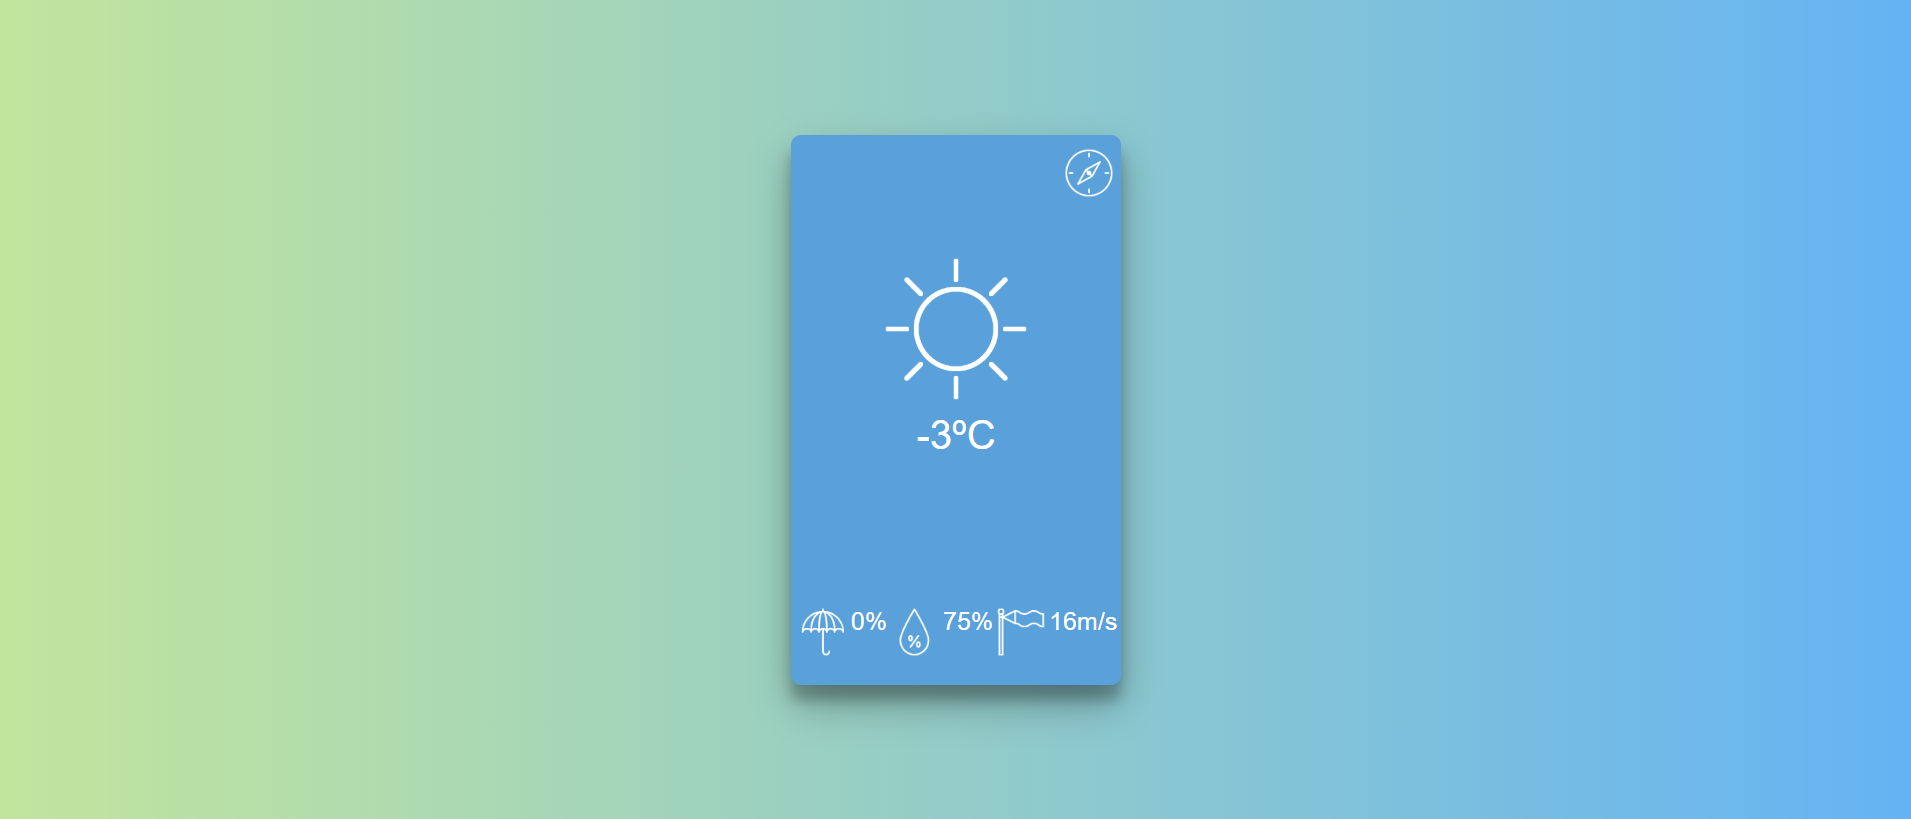
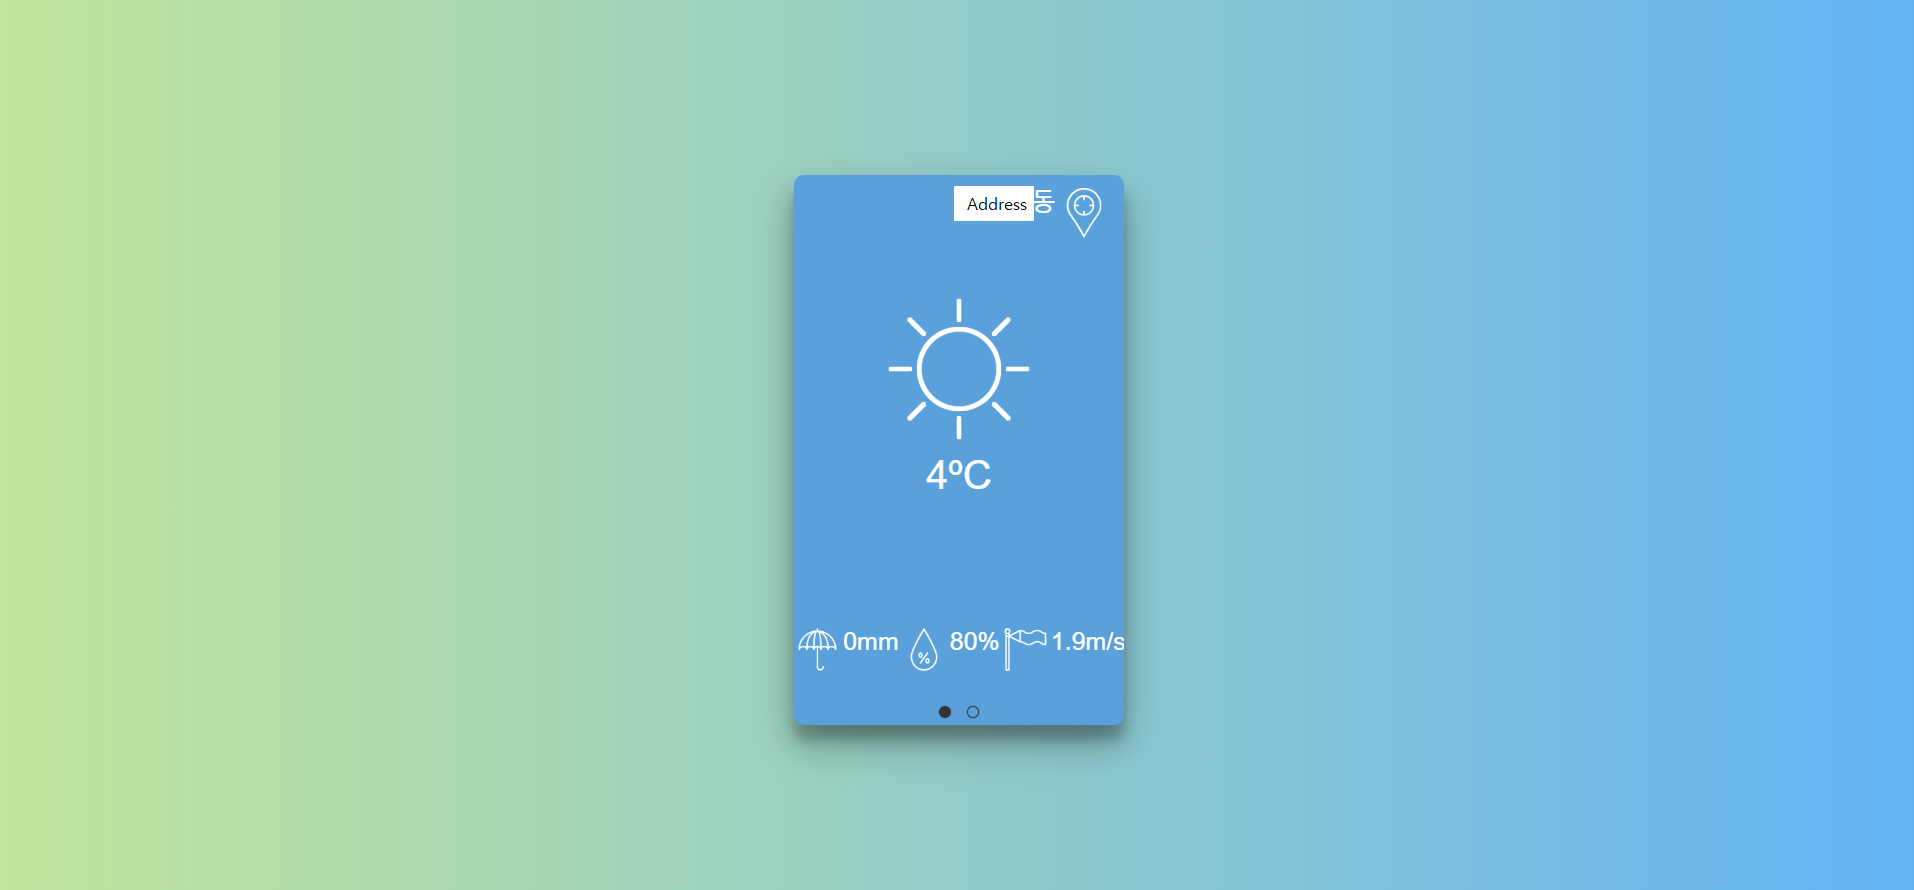
20200220 commit - 미세먼지 api

Changed region(s): [[0.4014, 0.7021, 0.5866, 0.8852], [0.4014, 0.1526, 0.5866, 0.2747], [0.4631, 0.3358, 0.5557, 0.5495]]

diff --git a/src/weatherValue.vue b/src/weatherValue.vue
@@ -1,12 +1,8 @@
 <template>
   <div>
-    <span type="button" id="btn" @click="getLocation">
-      <img src="./icon/gps.png" width="50px" height="50px" />
-    </span>
-
     <VueperSlides
       class="no-shadow"
-      fixed-height="440px"
+      fixed-height="500px"
       :arrows="false"
       bullets-outside
       :slide-content-outside="contentPosition"
@@ -19,6 +15,12 @@
       >
         <template v-slot:content>
           <div class="vueperslide__content-wrapper">
+            <div id="div1">
+              <div>{{ address }}</div>
+              <span type="button" id="btn" @click="getLocation">
+                <img src="./icon/gps.png" width="50px" height="50px" />
+              </span>
+            </div>
             <div id="div2">
               <!--구름형태:1(맑음)-->
               <img
@@ -99,6 +101,7 @@
 <script>
 import moment from "moment";
 import axios from "axios";
+import VueResource from "vue-resource";
 import { VueperSlides, VueperSlide } from "vueperslides";
 import "vueperslides/dist/vueperslides.css";
 
@@ -111,7 +114,12 @@ export default {
   },
   data() {
     return {
+      address: null,
       position: null,
+      dust: null,
+      tm_location: null,
+      tm_x: 0.0,
+      tm_y: 0.0,
       x: 0.0,
       y: 0.0,
       // address: null,
@@ -136,22 +144,43 @@ export default {
           self.position = position.coords;
           self.x = position.coords.latitude;
           self.y = position.coords.longitude;
+          var xn = position.coords.latitude;
+          var yn = position.coords.longitude;
           self.x = parseFloat(self.x).toFixed(0);
           self.y = parseFloat(self.y).toFixed(0);
           console.log(self.x + " " + self.y);
-          //리버스 지오코딩 API
-          // var url =
-          //   "http://api.vworld.kr/req/address?service=address&request=getAddress&version=2.0&crs=epsg:4326&point=" +
-          //   x2 +
-          //   "," +
-          //   y2 +
-          //   "&format=json&type=parcel&zipcode=false&simple=true&key=0770FD5D-CDD0-34DF-A0BF-83B8BBD6B916";
-          // axios.get(url).then(res => {
-          //   self.address = res.data;
+          console.log(xn + " " + yn);
 
-          //   console.log(self.address);
-          // });
-          //초단기실황 API
+          // 좌표->주소 카카오톡 REST API
+          var url =
+            "https://dapi.kakao.com/v2/local/geo/coord2address.json?x=" +
+            yn +
+            "&y=" +
+            xn +
+            "&input_coord=WGS84";
+          var appKey = "e210e19417b24807d3716f4e5a0bf4a9";
+          var config = {
+            headers: {
+              Authorization: "KakaoAK " + appKey,
+              "Access-Control-Request-Method": "GET"
+            }
+          };
+
+          self.$http
+            .get(url, config)
+            .then(res => {
+              self.address = res.data;
+              console.log(self.address);
+
+              self.address =
+                self.address.documents[0].address.region_3depth_name;
+              console.log(self.address);
+            })
+            .catch(error => {
+              console.log(error);
+            });
+
+          //동네예보 API
           var url1 =
             "http://apis.data.go.kr/1360000/VilageFcstInfoService/getVilageFcst?serviceKey=Td3kPWtrJnZxn1TkpcPhyrZj%2BdB%2FpRl1AKuvGw1mUHS63Lp4Dga90IvSn8SEsax%2F9QvvBmXfCE5TfOaaw0lCMA%3D%3D&numOfRows=14&pageNo=1&dataType=JSON&base_date=" +
             moment().format("YYYYMMDD") +
@@ -206,6 +235,50 @@ export default {
               }
             }
           });
+          // wgs좌표-> tm좌표 카카오톡 REST API
+          var url =
+            "https://dapi.kakao.com/v2/local/geo/transcoord.json?x=" +
+            yn +
+            "&y=" +
+            xn +
+            "&input_coord=WGS84&output_coord=TM";
+          var appKey = "e210e19417b24807d3716f4e5a0bf4a9";
+          var config = {
+            headers: {
+              Authorization: "KakaoAK " + appKey,
+              "Access-Control-Request-Method": "GET"
+            }
+          };
+
+          self.$http
+            .get(url, config)
+            .then(res => {
+              self.tm_location = res.data;
+              console.log(self.tm_location);
+
+              self.tm_x = self.tm_location.documents[0].x;
+              self.tm_y = self.tm_location.documents[0].y;
+              console.log(self.tm_x + " " + self.tm_y);
+            })
+            .catch(error => {
+              console.log(error);
+            });
+          //tm좌표 미세먼지 API
+          var url3 =
+            "http://openapi.airkorea.or.kr/openapi/services/rest/MsrstnInfoInqireSvc/getNearbyMsrstnList?tmX=" +
+            self.tm_x +
+            "&tmY=" +
+            self.y +
+            "&ServiceKey=JRWTmtB5qI3WJcvA7HrFcBrSWgA6OKvW6HVK5YN1uTvodOeEo2noxhbEsS020kBYMYHDEBWqTFITnB0u88vtnw%3D%3D";
+          axios
+            .get(url3)
+            .then(result => {
+              self.dust = result.data;
+              console.log(self.dust);
+            })
+            .catch(error => {
+              console.log(error);
+            });
         });
       } else {
         console.log("위치값을 받지 못함.");
@@ -218,11 +291,19 @@ export default {
 </script>
 
 <style scoped>
+#app2 {
+  padding: 30px 0 0 0;
+}
 .vueperslides--fixed-height {
   height: 550px;
 }
-#btn {
-  padding: 0px 0px 0px 265px;
+#div1 {
+  display: flex;
+  flex-direction: row;
+  justify-content: space-evenly;
+  color: white;
+  font-size: 25px;
+  padding: 0px 0px 0px 150px;
 }
 #div3 {
   font-size: 25px;
@@ -239,12 +320,6 @@ export default {
   justify-content: center;
   padding-top: 50px;
 }
-#div1 {
-  margin: 20px;
-  height: 3px;
-  width: 87%;
-  background-color: white;
-}
 #rldhs {
   font-size: 40px;
   color: white;
@@ -254,7 +329,7 @@ img {
 }
 section {
   width: 100%;
-  padding-top: 130px;
+  padding-top: 110px;
 
   display: flex;
   flex-direction: row;

diff --git a/index.html b/index.html
@@ -3,6 +3,7 @@
   <head>
     <meta charset="utf-8" />
     <meta name="viewport" content="width=device-width initial-scale=1.0" />
+
     <link
       rel="stylesheet"
       href="https://maxcdn.bootstrapcdn.com/bootstrap/3.3.2/css/bootstrap.min.css"
